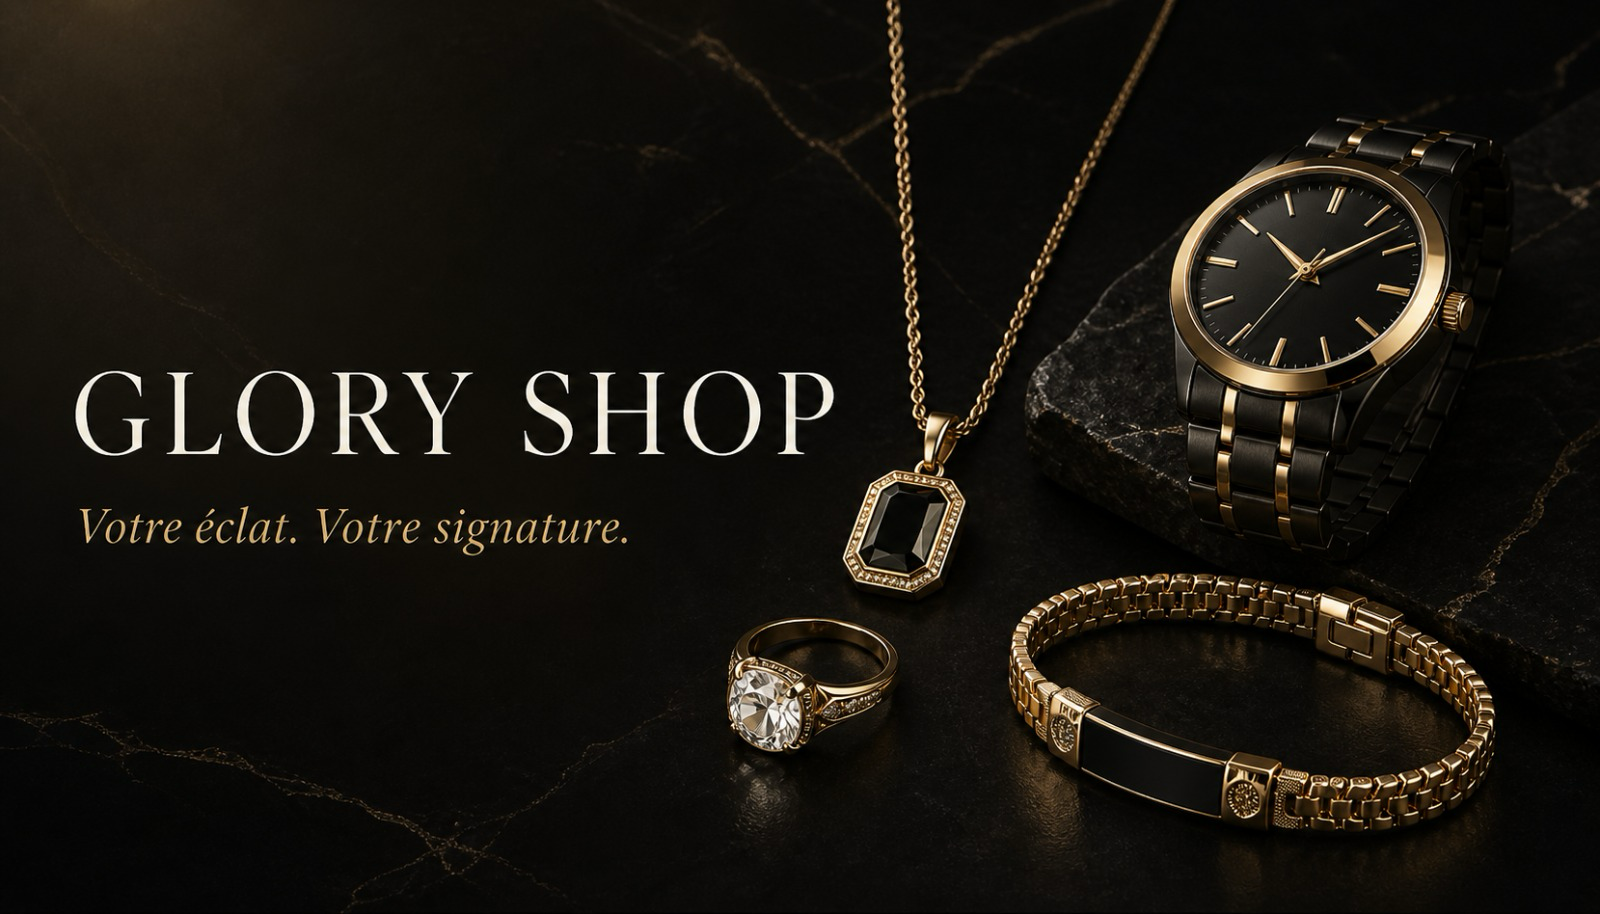
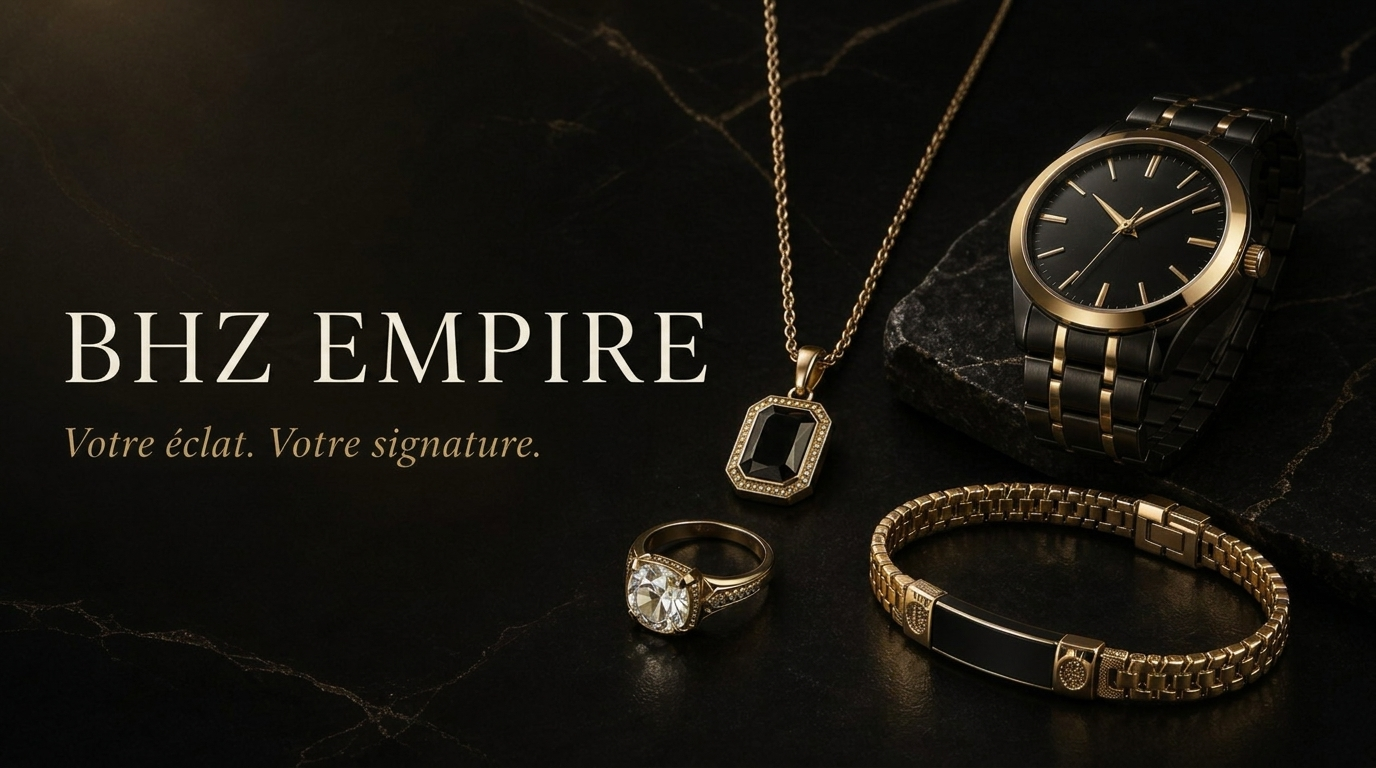
feat: rebrand to BHZ EMPIRE, update WhatsApp number and social links

diff --git a/public/shop.js b/public/shop.js
@@ -1,7 +1,7 @@
 (function () {
   "use strict";
 
-  const WHATSAPP = "22943244364";
+  const WHATSAPP = "2290169296243";
   const products = [
     {id:"GS-FC01",name:"Cascade Lumière",gender:"Femme",category:"Colliers",image:"/images/women-necklace-cascade.webp",price:18500,badge:"Nouveau",desc:"Collier sautoir coulissant aux lignes fines, conçu pour allonger délicatement la silhouette.",material:"Acier inoxydable plaqué",quality:"Premium",finish:"Dorure brillante",stone:"Cristaux sertis",colors:["Doré","Rose gold"],sizes:["Réglable 45–70 cm"],weight:"18 g",style:"Chic minimaliste",occasion:"Travail, soirée, cadeau",care:"Essuyer après usage et ranger à l'abri de l'humidité.",compatibility:"Peaux sensibles, sans nickel déclaré",availability:"En stock",delivery:"24 à 72 h",wholesale:"Oui, dès 10 pièces",advice:"Idéal avec un col en V ou une robe unie.",warranty:"Contrôle qualité à réception"},
     {id:"GS-FB01",name:"Constellation",gender:"Femme",category:"Bracelets",image:"/images/women-bracelets-star.webp",price:12500,badge:"Tendance",desc:"Composition de bracelets fins, étoilés et lumineux à porter seuls ou en accumulation.",material:"Alliage premium et acier",quality:"Sélection supérieure",finish:"Polie et pavée",stone:"Cristaux zircon",colors:["Doré","Argenté"],sizes:["16–21 cm réglable"],weight:"6 à 12 g",style:"Délicat",occasion:"Quotidien, anniversaire",care:"Éviter parfum direct et produits abrasifs.",compatibility:"Poignet fin à moyen",availability:"En stock",delivery:"24 à 72 h",wholesale:"Oui, selon stock",advice:"Mélangez deux modèles maximum pour un rendu raffiné.",warranty:"Vérification avant expédition"},
@@ -80,13 +80,13 @@
     ["Comment fonctionnent les filtres ?","Choisissez Femme, Homme ou un type de bijou, puis affinez par couleur et tranche de prix."],
     ["Mes articles restent-ils dans ma sélection ?","Oui, la sélection est conservée sur votre appareil pour faciliter une commande ultérieure."],
     ["Mes données personnelles sont-elles protégées ?","Les informations du formulaire servent uniquement à composer votre message WhatsApp et ne sont pas stockées dans une base de données par ce site."],
-    ["Comment contacter le service client ?","Écrivez ou appelez le +229 43 24 43 64. WhatsApp reste le moyen le plus rapide pour une réponse détaillée."]
+    ["Comment contacter le service client ?","Écrivez ou appelez le +229 01 69 29 62 43. WhatsApp reste le moyen le plus rapide pour une réponse détaillée."]
   ];
 
   const $ = (selector, root = document) => root.querySelector(selector);
   const $$ = (selector, root = document) => Array.from(root.querySelectorAll(selector));
   const money = value => new Intl.NumberFormat("fr-FR").format(value) + " FCFA";
-  let cart = JSON.parse(localStorage.getItem("glory-cart") || "[]");
+  let cart = JSON.parse(localStorage.getItem("bhz-cart") || localStorage.getItem("glory-cart") || "[]");
   let activeFilter = "Tous";
   let faqsExpanded = false;
 
@@ -101,7 +101,7 @@
       button.setAttribute("title", label);
       button.setAttribute("aria-pressed", String(dark));
     }
-    if (persist) localStorage.setItem("glory-theme", theme);
+    if (persist) { localStorage.setItem("bhz-theme", theme); localStorage.setItem("glory-theme", theme); }
   }
 
   function productCard(product) {
@@ -142,12 +142,12 @@
     const p = products.find(item => item.id === id); if (!p) return;
     const extra = [p.attachment && ["Type d'attache",p.attachment],p.length && ["Longueur",p.length],p.pieces && ["Nombre de pièces",p.pieces],p.composition && ["Composition",p.composition],p.diameter && ["Diamètre",p.diameter],p.strap && ["Bracelet",p.strap],p.resistance && ["Résistance",p.resistance],p.movement && ["Mouvement",p.movement]].filter(Boolean);
     const specs = [["Référence",p.id],["Matière",p.material],["Qualité",p.quality],["Finition",p.finish],["Pierre",p.stone],["Poids",p.weight],["Style",p.style],["Occasion",p.occasion],["Compatibilité",p.compatibility],["Disponibilité",p.availability],["Livraison",p.delivery],["Achat en gros",p.wholesale],["Garantie",p.warranty],...extra];
-    $("#modalContent").innerHTML = `<div class="modal-product"><div class="modal-visual"><img src="${p.image}" alt="${p.name}"></div><div class="modal-info"><p class="eyebrow">${p.gender} · ${p.category}</p><h2 id="modalTitle">${p.name}</h2><div class="modal-price">${money(p.price)}</div><p class="modal-description">${p.desc}</p><div class="spec-grid">${specs.map(([a,b]) => `<div><small>${a}</small><strong>${b}</strong></div>`).join("")}</div><div class="modal-selectors"><label>Couleur<select id="modalColor">${p.colors.map(c=>`<option>${c}</option>`).join("")}</select></label><label>Taille<select id="modalSize">${p.sizes.map(s=>`<option>${s}</option>`).join("")}</select></label></div><p class="modal-care"><strong>Conseil :</strong> ${p.advice}<br><strong>Entretien :</strong> ${p.care}</p><div class="modal-actions"><button data-modal-add="${p.id}">Ajouter à ma commande</button><a href="https://wa.me/${WHATSAPP}?text=${encodeURIComponent("Bonjour Glory Shop, je souhaite en savoir plus sur " + p.name + " (" + p.id + ").")}" target="_blank" aria-label="Demander sur WhatsApp">◉</a></div></div></div>`;
+    $("#modalContent").innerHTML = `<div class="modal-product"><div class="modal-visual"><img src="${p.image}" alt="${p.name}"></div><div class="modal-info"><p class="eyebrow">${p.gender} · ${p.category}</p><h2 id="modalTitle">${p.name}</h2><div class="modal-price">${money(p.price)}</div><p class="modal-description">${p.desc}</p><div class="spec-grid">${specs.map(([a,b]) => `<div><small>${a}</small><strong>${b}</strong></div>`).join("")}</div><div class="modal-selectors"><label>Couleur<select id="modalColor">${p.colors.map(c=>`<option>${c}</option>`).join("")}</select></label><label>Taille<select id="modalSize">${p.sizes.map(s=>`<option>${s}</option>`).join("")}</select></label></div><p class="modal-care"><strong>Conseil :</strong> ${p.advice}<br><strong>Entretien :</strong> ${p.care}</p><div class="modal-actions"><button data-modal-add="${p.id}">Ajouter à ma commande</button><a href="https://wa.me/${WHATSAPP}?text=${encodeURIComponent("Bonjour BHZ EMPIRE, je souhaite en savoir plus sur " + p.name + " (" + p.id + ").")}" target="_blank" aria-label="Demander sur WhatsApp">◉</a></div></div></div>`;
     $("#productModal").classList.add("open"); $("#productModal").setAttribute("aria-hidden","false"); document.body.classList.add("locked");
   }
 
   function closeModal() { $("#productModal").classList.remove("open"); $("#productModal").setAttribute("aria-hidden","true"); document.body.classList.remove("locked"); }
-  function saveCart() { localStorage.setItem("glory-cart", JSON.stringify(cart)); renderCart(); }
+  function saveCart() { localStorage.setItem("bhz-cart", JSON.stringify(cart)); renderCart(); }
   function addToCart(id, color, size) { const p = products.find(item=>item.id===id); if(!p)return; const c=color||p.colors[0], s=size||p.sizes[0]; const existing=cart.find(i=>i.id===id&&i.color===c&&i.size===s); if(existing) existing.qty+=1; else cart.push({id,color:c,size:s,qty:1}); saveCart(); toast(`${p.name} ajouté à la commande`); }
   function changeQty(index, delta) { if(!cart[index])return; cart[index].qty += delta; if(cart[index].qty < 1) cart.splice(index,1); saveCart(); }
   function cartMarkup() { if(!cart.length) return `<div class="cart-empty"><span>◇</span><p>Votre sélection est vide.</p><a href="#catalogue">Découvrir les bijoux</a></div>`; return cart.map((item,index)=>{const p=products.find(x=>x.id===item.id);return `<div class="order-line"><img src="${p.image}" alt="${p.name}"><div><h4>${p.name}</h4><p>${item.color} · ${item.size}</p><strong>${money(p.price*item.qty)}</strong></div><div class="order-line-controls"><button data-qty="${index}" data-delta="-1">−</button><span>${item.qty}</span><button data-qty="${index}" data-delta="1">+</button><button class="remove-item" data-remove="${index}">Retirer</button></div></div>`}).join(""); }
@@ -193,8 +193,8 @@
   $("#cartToggle").addEventListener("click",openCart); $("#cartClose").addEventListener("click",closeCart); $("#drawerBackdrop").addEventListener("click",closeCart); $("#checkoutLink").addEventListener("click",closeCart);
   $("#faqSearch").addEventListener("input",renderFaqs); $("#faqMore").addEventListener("click",()=>{faqsExpanded=!faqsExpanded;renderFaqs()});
   $("#backTop").addEventListener("click",()=>window.scrollTo({top:0,behavior:"smooth"})); window.addEventListener("scroll",()=>$("#backTop").classList.toggle("show",window.scrollY>700),{passive:true});
-  $("#orderForm").addEventListener("submit",event=>{event.preventDefault();if(!cart.length){toast("Ajoutez au moins un article à votre commande");$("#catalogue").scrollIntoView({behavior:"smooth"});return}const data=new FormData(event.currentTarget);const lines=cart.map((item,index)=>{const p=products.find(x=>x.id===item.id);return `Article ${index+1} : ${p.name} (${p.id})\nCouleur : ${item.color}\nTaille : ${item.size}\nQuantité : ${item.qty}\nPrix : ${money(p.price*item.qty)}`}).join("\n\n");const total=cart.reduce((s,i)=>s+products.find(p=>p.id===i.id).price*i.qty,0);const message=`Bonjour Glory Shop, je souhaite passer cette commande :\n\nNom : ${data.get("name")}\nTéléphone : ${data.get("phone")}\nVille : ${data.get("city")}\nQuartier : ${data.get("district")||"Non précisé"}\nAdresse : ${data.get("address")||"Non précisée"}\nMode de livraison : ${data.get("delivery")}\n\n${lines}\n\nTotal estimé : ${money(total)}\nRemarques : ${data.get("notes")||"Aucune"}\n\nMerci de me confirmer la disponibilité et les frais de livraison.`;window.open(`https://wa.me/${WHATSAPP}?text=${encodeURIComponent(message)}`,"_blank","noopener,noreferrer")});
-  $("#newsletterForm").addEventListener("submit",event=>{event.preventDefault();event.currentTarget.reset();toast("Merci ! Vous êtes inscrit(e) aux nouvelles Glory Shop.")});
+  $("#orderForm").addEventListener("submit",event=>{event.preventDefault();if(!cart.length){toast("Ajoutez au moins un article à votre commande");$("#catalogue").scrollIntoView({behavior:"smooth"});return}const data=new FormData(event.currentTarget);const lines=cart.map((item,index)=>{const p=products.find(x=>x.id===item.id);return `Article ${index+1} : ${p.name} (${p.id})\nCouleur : ${item.color}\nTaille : ${item.size}\nQuantité : ${item.qty}\nPrix : ${money(p.price*item.qty)}`}).join("\n\n");const total=cart.reduce((s,i)=>s+products.find(p=>p.id===i.id).price*i.qty,0);const message=`Bonjour BHZ EMPIRE, je souhaite passer cette commande :\n\nNom : ${data.get("name")}\nTéléphone : ${data.get("phone")}\nVille : ${data.get("city")}\nQuartier : ${data.get("district")||"Non précisé"}\nAdresse : ${data.get("address")||"Non précisée"}\nMode de livraison : ${data.get("delivery")}\n\n${lines}\n\nTotal estimé : ${money(total)}\nRemarques : ${data.get("notes")||"Aucune"}\n\nMerci de me confirmer la disponibilité et les frais de livraison.`;window.open(`https://wa.me/${WHATSAPP}?text=${encodeURIComponent(message)}`,"_blank","noopener,noreferrer")});
+  $("#newsletterForm").addEventListener("submit",event=>{event.preventDefault();event.currentTarget.reset();toast("Merci ! Vous êtes inscrit(e) aux nouvelles BHZ EMPIRE.")});
   document.addEventListener("keydown",event=>{if(event.key==="Escape"){closeModal();closeCart();$("#searchPanel").classList.remove("open")}});
 
   applyTheme(document.documentElement.dataset.theme || "light", false);

diff --git a/app/page.tsx b/app/page.tsx
@@ -5,9 +5,9 @@ export default function Home() {
     <>
       <div className="announcement">Livraison rapide au Bénin & à l'international <span>•</span> Service client WhatsApp <span>•</span> Emballage cadeau offert</div>
       <header className="site-header" id="top">
-        <a className="brand" href="#top" aria-label="Glory Shop, accueil">
-          <span className="brand-mark">G</span>
-          <span><strong>GLORY</strong><small>SHOP</small></span>
+        <a className="brand" href="#top" aria-label="BHZ EMPIRE, accueil">
+          <span className="brand-mark">B</span>
+          <span><strong>BHZ</strong><small>EMPIRE</small></span>
         </a>
         <nav className="desktop-nav" aria-label="Navigation principale">
           <a href="#collection">Collection</a>
@@ -34,7 +34,7 @@ export default function Home() {
 
       <main>
         <section className="hero">
-          <img src="/images/hero-couple.webp" alt="Couple élégant portant des bijoux Glory Shop" fetchPriority="high" />
+          <img src="/images/hero-couple.webp" alt="Couple élégant portant des bijoux BHZ EMPIRE" fetchPriority="high" />
           <div className="hero-shade" />
           <div className="hero-content reveal">
             <p className="eyebrow light">Nouvelle collection · 2026</p>
@@ -42,7 +42,7 @@ export default function Home() {
             <p className="hero-copy">Des bijoux choisis pour illuminer les instants simples et sublimer les grands jours.</p>
             <div className="hero-buttons">
               <a className="button button-gold" href="#collection">Découvrir la collection</a>
-              <a className="button button-ghost" href="https://wa.me/22943244364" target="_blank" rel="noreferrer">Nous contacter</a>
+              <a className="button button-ghost" href="https://wa.me/2290169296243" target="_blank" rel="noreferrer">Nous contacter</a>
             </div>
           </div>
           <div className="hero-note"><span>01</span><div /><p>Élégance<br />sans compromis</p></div>
@@ -56,7 +56,7 @@ export default function Home() {
         </section>
 
         <section className="intro section-shell reveal" id="collection">
-          <p className="eyebrow">La maison Glory</p>
+          <p className="eyebrow">La maison BHZ EMPIRE</p>
           <h2>Le bijou qui raconte<br /><em>votre histoire</em></h2>
           <p>Des pièces intemporelles aux détails contemporains, notre sélection accompagne chaque personnalité, chaque style et chaque occasion.</p>
         </section>
@@ -97,7 +97,7 @@ export default function Home() {
         </section>
 
         <section className="values section-shell" id="avantages">
-          <div className="section-heading centered reveal"><div><p className="eyebrow">L'expérience Glory Shop</p><h2>Pourquoi nous <em>choisir</em></h2></div></div>
+          <div className="section-heading centered reveal"><div><p className="eyebrow">L'expérience BHZ EMPIRE</p><h2>Pourquoi nous <em>choisir</em></h2></div></div>
           <div className="value-grid">
             <article className="reveal"><span>01</span><i>✦</i><h3>Qualité premium</h3><p>Des pièces sélectionnées pour leur éclat, leur finition et leur confort au quotidien.</p></article>
             <article className="reveal"><span>02</span><i>₣</i><h3>Prix accessibles</h3><p>Un style remarquable à prix juste, avec des options adaptées à chaque budget.</p></article>
@@ -109,7 +109,7 @@ export default function Home() {
         </section>
 
         <section className="order-section" id="commande">
-          <div className="order-image reveal"><img src="/images/gift-set.webp" alt="Coffret cadeau de bijoux Glory Shop" loading="lazy" /><div><span>Un cadeau ?</span><p>Demandez votre emballage offert.</p></div></div>
+          <div className="order-image reveal"><img src="/images/gift-set.webp" alt="Coffret cadeau de bijoux BHZ EMPIRE" loading="lazy" /><div><span>Un cadeau ?</span><p>Demandez votre emballage offert.</p></div></div>
           <div className="order-panel reveal">
             <p className="eyebrow">Commande simple</p><h2>Finalisez sur <em>WhatsApp</em></h2><p className="order-intro">Ajoutez vos coups de cœur, complétez vos informations, puis envoyez votre commande en un clic.</p>
             <div className="order-items" id="orderItems"><div className="cart-empty"><span>◇</span><p>Votre sélection est vide.</p><a href="#catalogue">Découvrir les bijoux</a></div></div>
@@ -141,28 +141,28 @@ export default function Home() {
         </section>
 
         <section className="contact" id="contact">
-          <div className="contact-copy reveal"><p className="eyebrow light">Parlons de votre choix</p><h2>Nous sommes là<br /><em>pour vous.</em></h2><p>Un doute sur une taille ou une couleur ? Écrivez-nous, notre équipe vous répond avec plaisir.</p><a className="button button-gold" href="https://wa.me/22943244364" target="_blank" rel="noreferrer">Écrire sur WhatsApp</a></div>
+          <div className="contact-copy reveal"><p className="eyebrow light">Parlons de votre choix</p><h2>Nous sommes là<br /><em>pour vous.</em></h2><p>Un doute sur une taille ou une couleur ? Écrivez-nous, notre équipe vous répond avec plaisir.</p><a className="button button-gold" href="https://wa.me/2290169296243" target="_blank" rel="noreferrer">Écrire sur WhatsApp</a></div>
           <div className="contact-details reveal">
-            <div><small>WhatsApp & téléphone</small><a href="tel:+22943244364">+229 43 24 43 64</a></div>
+            <div><small>WhatsApp & téléphone</small><a href="tel:+2290169296243">+229 01 69 29 62 43</a></div>
             <div><small>Horaires</small><p>Lun — Sam · 08h00 — 20h00<br />Dimanche · Sur WhatsApp</p></div>
             <div><small>Adresse</small><p>Cotonou, Bénin<br />Livraison nationale & internationale</p></div>
-            <div><small>Nous suivre</small><p className="socials"><a href="#">Instagram</a><a href="#">Facebook</a><a href="#">TikTok</a></p></div>
+            <div><small>Nous suivre</small><p className="socials"><a href="https://www.tiktok.com/@bhzempire?_r=1&_t=ZS-9AionjBdS6P" target="_blank" rel="noreferrer">TikTok</a><a href="https://www.instagram.com/bhz_empire?obrf=MWY0YXN6YWx4OHhhZA==" target="_blank" rel="noreferrer">Instagram</a><a href="https://www.facebook.com/share/1A6D586Hub/" target="_blank" rel="noreferrer">Facebook</a></p></div>
           </div>
-          <div className="map-placeholder" style={{ padding: 0, overflow: 'hidden' }}><img src="/images/brand-banner.png" alt="Glory Shop — Votre éclat. Votre signature." style={{ width: '100%', height: '100%', objectFit: 'cover', display: 'block' }} loading="lazy" /></div>
+          <div className="map-placeholder" style={{ padding: 0, overflow: 'hidden' }}><img src="/images/brand-banner.png?v=2" alt="BHZ EMPIRE — Votre éclat. Votre signature." style={{ width: '100%', height: '100%', objectFit: 'cover', display: 'block' }} loading="lazy" /></div>
         </section>
       </main>
 
       <footer>
         <div className="footer-main">
-          <div className="footer-brand"><a className="brand light-brand" href="#top"><span className="brand-mark">G</span><span><strong>GLORY</strong><small>SHOP</small></span></a><p>Des bijoux qui révèlent votre éclat.</p></div>
+          <div className="footer-brand"><a className="brand light-brand" href="#top"><span className="brand-mark">B</span><span><strong>BHZ</strong><small>EMPIRE</small></span></a><p>Des bijoux qui révèlent votre éclat.</p></div>
           <div><h3>Explorer</h3><a href="#collection">Collections</a><a href="#femme">Femme</a><a href="#homme">Homme</a><a href="#commande">Commander</a></div>
           <div><h3>Informations</h3><a href="#faq">Livraison & retours</a><a href="#faq">Guide des tailles</a><a href="#faq">Entretien</a><a href="#contact">Nous contacter</a></div>
           <div><h3>Newsletter privée</h3><p>Recevez nos nouveautés et offres exclusives.</p><form id="newsletterForm"><input type="email" required placeholder="Votre adresse e-mail" aria-label="Votre adresse e-mail" /><button aria-label="S'inscrire">→</button></form></div>
         </div>
-        <div className="footer-bottom"><span>© 2026 Glory Shop. Tous droits réservés.</span><p><a href="#">Mentions légales</a><a href="#">Confidentialité</a><a href="#">Conditions générales</a></p></div>
+        <div className="footer-bottom"><span>© 2026 BHZ EMPIRE. Tous droits réservés.</span><p><a href="#">Mentions légales</a><a href="#">Confidentialité</a><a href="#">Conditions générales</a></p></div>
       </footer>
 
-      <a className="floating-whatsapp" href="https://wa.me/22943244364" target="_blank" rel="noreferrer" aria-label="Contacter Glory Shop sur WhatsApp">◉<span>Besoin d'aide ?</span></a>
+      <a className="floating-whatsapp" href="https://wa.me/2290169296243" target="_blank" rel="noreferrer" aria-label="Contacter BHZ EMPIRE sur WhatsApp">◉<span>Besoin d'aide ?</span></a>
       <button className="back-top" id="backTop" aria-label="Retour en haut">↑</button>
 
       <div className="modal" id="productModal" role="dialog" aria-modal="true" aria-labelledby="modalTitle" aria-hidden="true"><div className="modal-backdrop" data-close-modal /><div className="modal-card"><button className="modal-close" data-close-modal aria-label="Fermer">×</button><div id="modalContent" /></div></div>

diff --git a/app/layout.tsx b/app/layout.tsx
@@ -3,21 +3,21 @@ import "./globals.css";
 
 export const metadata: Metadata = {
   metadataBase: new URL(process.env.SITE_URL || "https://glory-shop.pages.dev"),
-  title: "Glory Shop | Bijoux & accessoires premium",
-  description: "Découvrez les collections femme et homme Glory Shop : colliers, bracelets, bagues, montres, boucles d'oreilles et ensembles. Commandez facilement sur WhatsApp.",
-  keywords: ["bijoux Bénin", "bijoux Cotonou", "montres homme", "bijoux femme", "Glory Shop"],
+  title: "BHZ EMPIRE | Bijoux & accessoires premium",
+  description: "Découvrez les collections femme et homme BHZ EMPIRE : colliers, bracelets, bagues, montres, boucles d'oreilles et ensembles. Commandez facilement sur WhatsApp.",
+  keywords: ["bijoux Bénin", "bijoux Cotonou", "montres homme", "bijoux femme", "BHZ EMPIRE"],
   icons: { icon: "/favicon.svg", shortcut: "/favicon.svg" },
   openGraph: {
-    title: "Glory Shop — Votre éclat, votre signature",
+    title: "BHZ EMPIRE — Votre éclat, votre signature",
     description: "Bijoux et accessoires premium pour femme et homme. Livraison au Bénin et à l'international.",
     type: "website",
     locale: "fr_BJ",
-    images: [{ url: "/images/brand-banner.png", width: 1664, height: 944, alt: "Glory Shop — Votre éclat. Votre signature." }],
+    images: [{ url: "/images/brand-banner.png?v=2", width: 1664, height: 944, alt: "BHZ EMPIRE — Votre éclat. Votre signature." }],
   },
-  twitter: { card: "summary_large_image", title: "Glory Shop — Votre éclat, votre signature", description: "Bijoux et accessoires premium avec livraison au Bénin et à l'international.", images: ["/images/brand-banner.png"] },
+  twitter: { card: "summary_large_image", title: "BHZ EMPIRE — Votre éclat, votre signature", description: "Bijoux et accessoires premium avec livraison au Bénin et à l'international.", images: ["/images/brand-banner.png?v=2"] },
   robots: { index: true, follow: true },
 };
 
 export default function RootLayout({ children }: Readonly<{ children: React.ReactNode }>) {
-  return <html lang="fr" suppressHydrationWarning><head><script dangerouslySetInnerHTML={{ __html: `(function(){try{var saved=localStorage.getItem('glory-theme');var theme=saved||(window.matchMedia('(prefers-color-scheme: dark)').matches?'dark':'light');document.documentElement.dataset.theme=theme;document.documentElement.style.colorScheme=theme;}catch(e){document.documentElement.dataset.theme='light';}})();` }} /></head><body>{children}</body></html>;
+  return <html lang="fr" suppressHydrationWarning><head><script dangerouslySetInnerHTML={{ __html: `(function(){try{var saved=localStorage.getItem('bhz-theme')||localStorage.getItem('glory-theme');var theme=saved||(window.matchMedia('(prefers-color-scheme: dark)').matches?'dark':'light');document.documentElement.dataset.theme=theme;document.documentElement.style.colorScheme=theme;}catch(e){document.documentElement.dataset.theme='light';}})();` }} /></head><body>{children}</body></html>;
 }
